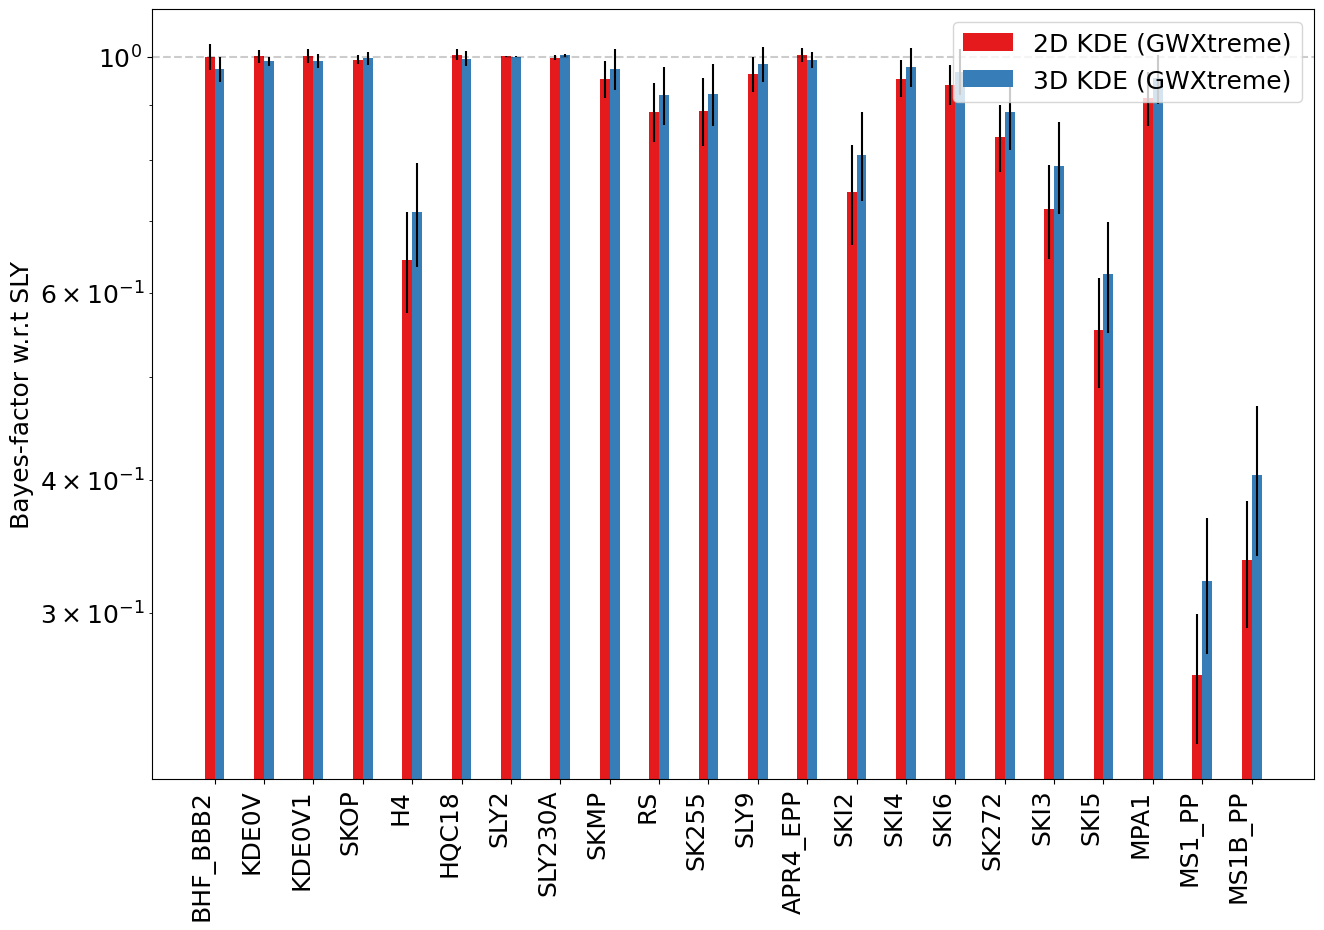
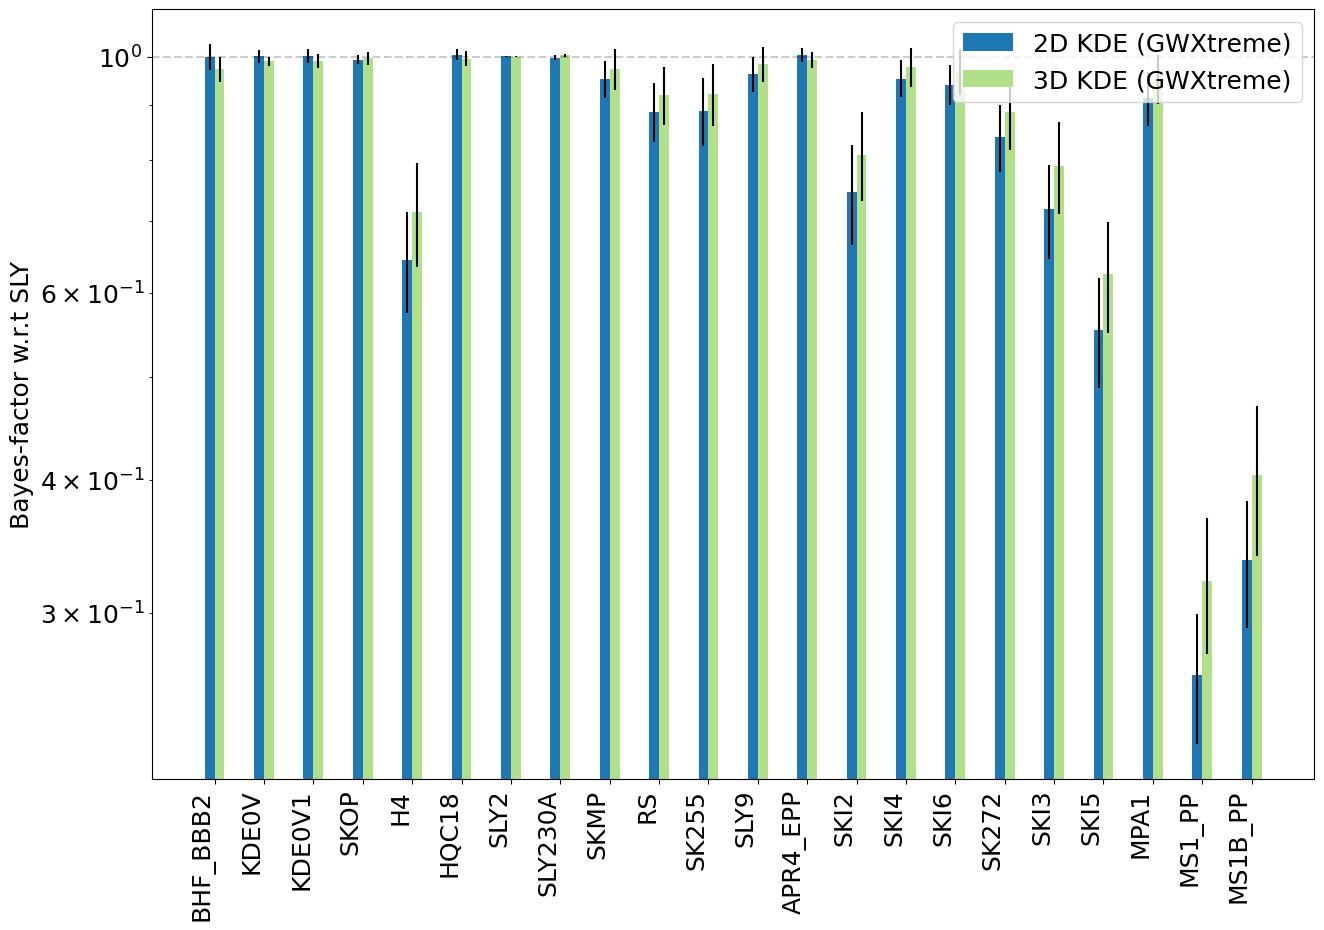
Same aforementioned test but for three injections... again

Changed region(s): [[0.1548, 0.0312, 0.96, 0.8419]]

diff --git a/year3/PhenomTaylorCompare/simulationBFs_GWXtreme2024Paper.py b/year3/PhenomTaylorCompare/simulationBFs_GWXtreme2024Paper.py
@@ -85,7 +85,8 @@ def singleEventPlots():
         eosList = ["BHF_BBB2","KDE0V","KDE0V1","SKOP","H4","HQC18","SLY2","SLY230A","SKMP","RS","SK255","SLY9","APR4_EPP","SKI2","SKI4","SKI6","SK272","SKI3","SKI5","MPA1","MS1_PP","MS1B_PP"]
         #colors = ["#66c2a5","#fc8d62"] # Colors we initially used
         #colors = ["#e41a1c", "#377eb8", "#4daf4a", "#984ea3"]
-        colors = ["#e41a1c", "#377eb8"]
+        #colors = ["#e41a1c", "#377eb8"]
+        colors = ["#1f78b4", "#b2df8a"]
         x_axis = np.arange(len(eosList))
 #        spacing = [-.3,-.1,.1,.3]
         spacing = [-.10,.10]
